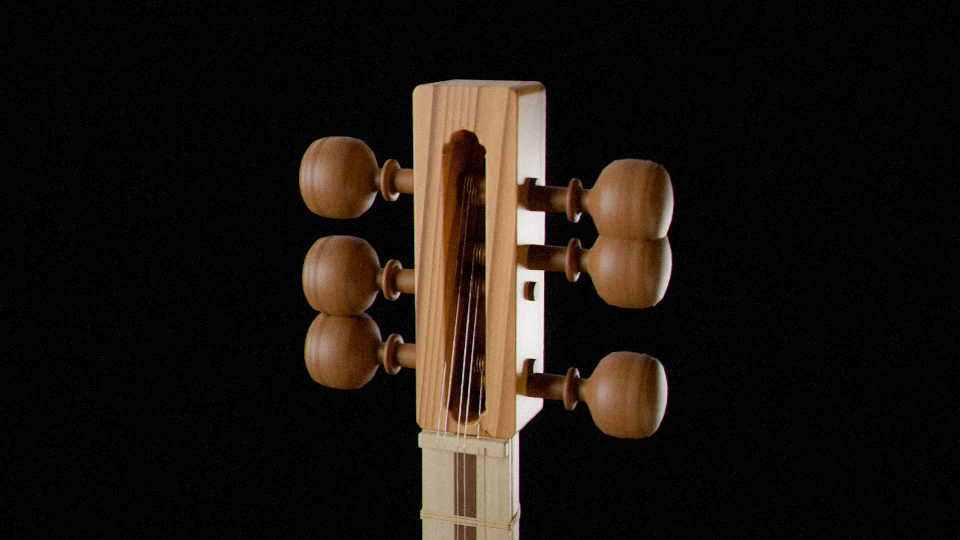
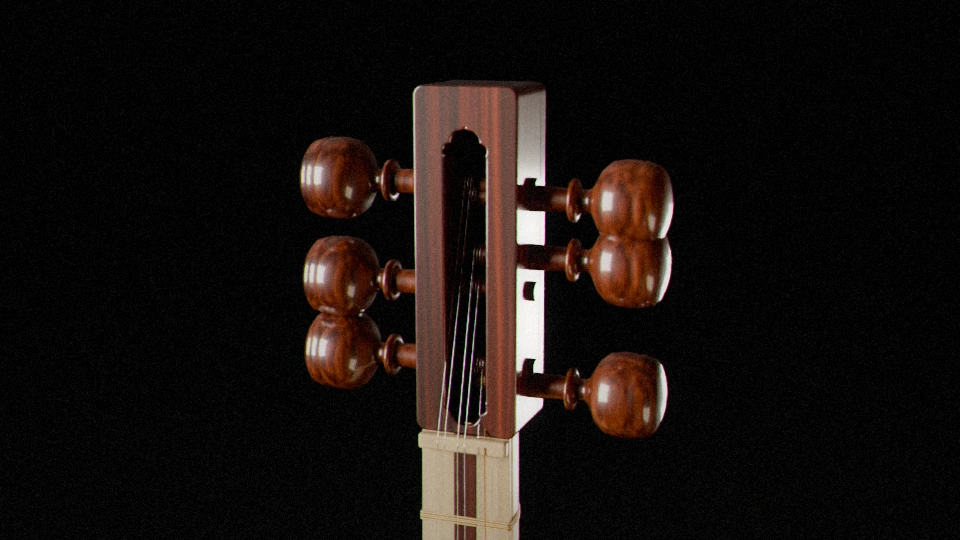
Render: rebuild the look from the user's sample sheets (round 13)
Dark glossy red-brown wood with long flame streaks and sixteen pale inlay lines
round the bowls, pale maple neck, khatam border round a grey-brown marbled skin,
charcoal studio sweep with a lighter floor tone, clean studio reflections for the
lacquer and a dimmer back light. TAR_LOOK=old keeps the previous look. Burnt
pixels: at most 0.03% across the tip-over poses, none along the end of the scroll.

Claude-Session: https://claude.ai/code/session_01G1uTAfhbgKsxoFAeno84xV

Changed region(s): [[0.3125, 0.1481, 0.7188, 0.8296], [0.4688, 0.8593, 0.5, 0.8889]]

diff --git a/render/build_scene.py b/render/build_scene.py
@@ -459,6 +459,217 @@ def metal(name, colour, roughness):
     return m
 
 
+# ---------------------------------------------------------------- round 13: the user's samples
+# Materials rebuilt from the two sample sheets the user chose (docs/tar-3d/refs-chatgpt): dark,
+# glossy red-brown wood with long flame streaks and thin pale inlay lines along the bowls, a pale
+# maple neck, grey-brown marbled skin and a khatam border round it, on a charcoal studio sweep.
+class Nodes:
+    """Small helper for building node graphs."""
+    def __init__(self, nt):
+        self.nt = nt
+
+    def new(self, kind, **inputs):
+        n = self.nt.nodes.new(kind)
+        for k, v in inputs.items():
+            n.inputs[k].default_value = v
+        return n
+
+    def link(self, a, b):
+        self.nt.links.new(a, b)
+
+    def op(self, kind, x, y=None, z=None):
+        n = self.nt.nodes.new('ShaderNodeMath'); n.operation = kind
+        for i, v in enumerate((x, y, z)):
+            if v is None: continue
+            if isinstance(v, (int, float)): n.inputs[i].default_value = v
+            else: self.nt.links.new(v, n.inputs[i])
+        return n.outputs[0]
+
+    def grey(self, f):
+        c = self.nt.nodes.new('ShaderNodeCombineColor')
+        for k in ('Red', 'Green', 'Blue'): self.nt.links.new(f, c.inputs[k])
+        return c.outputs['Color']
+
+    def mix(self, fac, a, b, blend='MIX'):
+        m = self.nt.nodes.new('ShaderNodeMix'); m.data_type = 'RGBA'; m.blend_type = blend
+        for sock, v in (('Factor', fac), ('A', a), ('B', b)):
+            if isinstance(v, (int, float)): m.inputs[sock].default_value = v
+            elif isinstance(v, tuple): m.inputs[sock].default_value = v
+            else: self.nt.links.new(v, m.inputs[sock])
+        return m.outputs['Result']
+
+    def noise(self, vec, scale, detail=2.0, rough=0.5, distortion=0.0, stretch=None):
+        if stretch:
+            mp = self.new('ShaderNodeMapping'); mp.inputs['Scale'].default_value = stretch
+            self.link(vec, mp.inputs['Vector']); vec = mp.outputs['Vector']
+        n = self.new('ShaderNodeTexNoise', Scale=scale, Detail=detail, Roughness=rough, Distortion=distortion)
+        self.link(vec, n.inputs['Vector'])
+        return n
+
+    def ramp(self, fac, stops):
+        r = self.nt.nodes.new('ShaderNodeValToRGB'); cr = r.color_ramp
+        cr.elements[0].position, cr.elements[0].color = stops[0][0], srgb(stops[0][1])
+        cr.elements[1].position, cr.elements[1].color = stops[-1][0], srgb(stops[-1][1])
+        for pos, col in stops[1:-1]:
+            e = cr.elements.new(pos); e.color = srgb(col)
+        self.link(fac, r.inputs['Fac'])
+        return r.outputs['Color']
+
+
+ROSEWOOD = ('#0e0301', '#2e0b02', '#581a06', '#8c3410')  # deep, dark, mid, light (sample: mean 73 32 18)
+
+
+def rosewood(name, tones=ROSEWOOD, gloss=1.0, stripes=0, stripe_axis_y=0.0, stripe_top=1.0, scale=1.0):
+    """Dark red-brown wood with long, wavy flame streaks along the instrument (Blender z) and a
+    deep, glossy lacquer. stripes>0 adds that many thin pale inlay lines round the bowl's long
+    axis (one down the middle of the back), as on the samples."""
+    m, nt, bsdf = new_mat(name); g = Nodes(nt)
+    co = g.new('ShaderNodeTexCoord').outputs['Object']
+    # broad light and dark areas, long along the grain
+    broad = g.noise(co, 1.0, detail=2, rough=0.5, distortion=0.3, stretch=(7 * scale, 7 * scale, 0.9 * scale))
+    # the flame: tight wavy streaks, stretched along the grain and bent by the broad noise
+    warp = g.new('ShaderNodeVectorMath'); warp.operation = 'ADD'
+    wsc = g.new('ShaderNodeVectorMath'); wsc.operation = 'SCALE'; wsc.inputs['Scale'].default_value = 0.02
+    g.link(broad.outputs['Color'], wsc.inputs[0]); g.link(co, warp.inputs[0]); g.link(wsc.outputs[0], warp.inputs[1])
+    # (octaves of a noise grow finer along every axis alike, so each scale gets its own
+    # stretched noise: that keeps all of them long along the grain instead of mottled)
+    flame = g.noise(warp.outputs[0], 1.0, detail=1, rough=0.5, stretch=(110 * scale, 110 * scale, 1.2 * scale))
+    flame2 = g.noise(warp.outputs[0], 1.0, detail=1, rough=0.5, stretch=(380 * scale, 380 * scale, 3.0 * scale))
+    tone = g.op('ADD', g.op('MULTIPLY', flame.outputs['Fac'], 0.6), g.op('MULTIPLY', flame2.outputs['Fac'], 0.3))
+    tone = g.op('ADD', tone, g.op('MULTIPLY', broad.outputs['Fac'], 0.3))
+    tone = g.op('SUBTRACT', tone, 0.1)
+    col = g.ramp(tone, [(0.22, tones[0]), (0.4, tones[1]), (0.56, tones[2]), (0.72, tones[3])])
+    # fine fibres and pores
+    fib = g.noise(co, 1.0, detail=3, rough=0.6, stretch=(1200, 1200, 20))
+    col = g.mix(1.0, col, g.grey(g.op('ADD', 0.88, g.op('MULTIPLY', fib.outputs['Fac'], 0.24))), 'MULTIPLY')
+    if stripes:
+        sep = g.new('ShaderNodeSeparateXYZ'); g.link(co, sep.inputs[0])
+        theta = g.op('ARCTAN2', sep.outputs['X'], g.op('SUBTRACT', sep.outputs['Y'], stripe_axis_y))
+        f = g.op('FRACT', g.op('ADD', g.op('MULTIPLY', theta, stripes / (2 * math.pi)), 0.5))
+        dist = g.op('ABSOLUTE', g.op('SUBTRACT', f, 0.5))  # 0 on a line … 0.5 between lines
+        line = g.op('SUBTRACT', 1.0, g.op('SMOOTH_MIN', g.op('DIVIDE', dist, 0.006), 1.0, 0.2))
+        line = g.op('MAXIMUM', 0.0, g.op('MINIMUM', 1.0, line))
+        line = g.op('MULTIPLY', line, g.op('MINIMUM', 1.0, g.op('MAXIMUM', 0.0, g.op('DIVIDE', g.op('SUBTRACT', stripe_top, sep.outputs['Z']), 0.04))))
+        rad = g.op('SQRT', g.op('ADD', g.op('POWER', sep.outputs['X'], 2.0), g.op('POWER', g.op('SUBTRACT', sep.outputs['Y'], stripe_axis_y), 2.0)))
+        line = g.op('MULTIPLY', line, g.op('MINIMUM', 1.0, g.op('MAXIMUM', 0.0, g.op('DIVIDE', g.op('SUBTRACT', rad, 0.03), 0.03))))
+        col = g.mix(line, col, srgb('#dcc08e'))
+    g.link(col, bsdf.inputs['Base Color'])
+    bsdf.inputs['Roughness'].default_value = 0.42
+    bsdf.inputs['Specular IOR Level'].default_value = 0.5
+    bsdf.inputs['Coat Weight'].default_value = gloss
+    bsdf.inputs['Coat Roughness'].default_value = 0.11
+    bsdf.inputs['Coat IOR'].default_value = 1.5
+    bump = g.new('ShaderNodeBump', Strength=0.04, Distance=0.0004)
+    g.link(fib.outputs['Fac'], bump.inputs['Height']); g.link(bump.outputs['Normal'], bsdf.inputs['Normal'])
+    return m
+
+
+def maple(name, base='#e2c79a', streak='#c9a46e', gloss=0.35):
+    """Pale, close-grained neck wood (the samples' neck is cream with faint streaks)."""
+    m, nt, bsdf = new_mat(name); g = Nodes(nt)
+    co = g.new('ShaderNodeTexCoord').outputs['Object']
+    st = g.noise(co, 1.0, detail=4, rough=0.6, stretch=(400, 400, 8))
+    col = g.ramp(st.outputs['Fac'], [(0.3, base), (0.75, streak)])
+    g.link(col, bsdf.inputs['Base Color'])
+    bsdf.inputs['Roughness'].default_value = 0.45
+    bsdf.inputs['Coat Weight'].default_value = gloss; bsdf.inputs['Coat Roughness'].default_value = 0.2
+    return m
+
+
+def mesh_edge_map(objs, prefix, name, px_per_cm=20, max_cm=3.0):
+    """Distance from the edge of a flat part (in the front plane), as an image; see make_skin_edge_map."""
+    from PIL import Image, ImageDraw, ImageFilter
+    ob = [o for o in objs if o.name.startswith(prefix)][0]; me = ob.data
+    xs = [v.co.x for v in me.vertices]; zs = [v.co.z for v in me.vertices]
+    x0, z0 = min(xs) - 0.005, min(zs) - 0.005
+    w, h = max(xs) + 0.005 - x0, max(zs) + 0.005 - z0
+    W, H = round(w * 100 * px_per_cm), round(h * 100 * px_per_cm)
+    im = Image.new('L', (W, H), 0); dr = ImageDraw.Draw(im)
+    to_px = lambda v: ((v.co.x - x0) / w * W, (1 - (v.co.z - z0) / h) * H)
+    front = max(v.co.y for v in me.vertices)
+    for poly in me.polygons:
+        if abs(poly.normal.y) > 0.5:  # faces in the front plane only
+            dr.polygon([to_px(me.vertices[i]) for i in poly.vertices], fill=255)
+    steps = round(max_cm * px_per_cm); dist = Image.new('L', (W, H), 0); cur = im
+    for k in range(steps):
+        cur = cur.filter(ImageFilter.MinFilter(3))
+        dist.paste(round(255 * (k + 1) / steps), mask=cur)
+    dist = dist.filter(ImageFilter.GaussianBlur(1.0))
+    path = BUILD / f'{name}_edge.png'; dist.save(path)
+    return (path, x0, z0, w, h, max_cm)
+
+
+LIP_EDGE = None
+
+
+def edge_value(g, co, edge):
+    path, x0, z0, w, h = edge[:5]
+    sep = g.new('ShaderNodeSeparateXYZ'); g.link(co, sep.inputs[0])
+    uv = g.new('ShaderNodeCombineXYZ')
+    g.link(g.op('DIVIDE', g.op('SUBTRACT', sep.outputs['X'], x0), w), uv.inputs['X'])
+    g.link(g.op('DIVIDE', g.op('SUBTRACT', sep.outputs['Z'], z0), h), uv.inputs['Y'])
+    img = g.new('ShaderNodeTexImage'); img.image = bpy.data.images.load(str(path), check_existing=False)
+    img.image.colorspace_settings.name = 'Non-Color'; img.extension = 'EXTEND'
+    g.link(uv.outputs[0], img.inputs['Vector'])
+    return img.outputs['Color'], sep
+
+
+def khatam_lip():
+    """The border round the skin: a pale line on each side and, between them, a dark band of
+    small pale triangles pointing in (khatam), as on the samples."""
+    m, nt, bsdf = new_mat('lip'); g = Nodes(nt)
+    co = g.new('ShaderNodeTexCoord').outputs['Object']
+    ev, sep = edge_value(g, co, LIP_EDGE)
+    sc = g.new('ShaderNodeSeparateColor'); g.link(ev, sc.inputs['Color'])
+    d_cm = g.op('MULTIPLY', sc.outputs['Red'], LIP_EDGE[5])       # cm from the nearest edge
+    half = 0.95                                                   # the border is about 1.9 cm wide
+    across = g.op('MINIMUM', 1.0, g.op('DIVIDE', d_cm, half))     # 0 at an edge … 1 in the middle
+    pale = g.op('LESS_THAN', d_cm, 0.09)                          # the two pale lines
+    # along the band: a coordinate that keeps running round both curves of the outline
+    along = g.op('ADD', g.op('MULTIPLY', sep.outputs['X'], 260.0), g.op('MULTIPLY', sep.outputs['Z'], 260.0))
+    tri = g.op('MULTIPLY', g.op('ABSOLUTE', g.op('SUBTRACT', g.op('FRACT', along), 0.5)), 2.0)
+    tooth = g.op('LESS_THAN', g.op('DIVIDE', g.op('SUBTRACT', across, 0.2), 0.45), tri)
+    tooth = g.op('MULTIPLY', tooth, g.op('MULTIPLY', g.op('GREATER_THAN', across, 0.2), g.op('LESS_THAN', across, 0.65)))
+    col = g.mix(tooth, srgb('#1a0e08'), srgb('#cdbb98'))
+    col = g.mix(pale, col, srgb('#c9a874'))
+    g.link(col, bsdf.inputs['Base Color'])
+    bsdf.inputs['Roughness'].default_value = 0.35
+    bsdf.inputs['Coat Weight'].default_value = 0.8; bsdf.inputs['Coat Roughness'].default_value = 0.1
+    return m
+
+
+def parchment_skin():
+    """The samples' skin: grey-brown, matte, marbled with fine darker and lighter veins, a little
+    darker towards its glued edge."""
+    m, nt, bsdf = new_mat('skin'); g = Nodes(nt)
+    co = g.new('ShaderNodeTexCoord').outputs['Object']
+    marble = g.noise(co, 90.0, detail=10, rough=0.66, distortion=2.0)
+    base = g.ramp(marble.outputs['Fac'], [(0.3, '#4a4038'), (0.5, '#6a5f54'), (0.7, '#857767')])
+    # fine dark veins (cell edges of a warped Voronoi) and a lighter network between them
+    wv = g.new('ShaderNodeVectorMath'); wv.operation = 'SCALE'; wv.inputs['Scale'].default_value = 0.003
+    g.link(marble.outputs['Color'], wv.inputs[0])
+    wco = g.new('ShaderNodeVectorMath'); wco.operation = 'ADD'; g.link(co, wco.inputs[0]); g.link(wv.outputs[0], wco.inputs[1])
+    col = base
+    for scale, width, depth in ((90.0, 0.04, 0.25), (320.0, 0.05, 0.2)):
+        vo = g.new('ShaderNodeTexVoronoi', Scale=scale); vo.feature = 'DISTANCE_TO_EDGE'
+        g.link(wco.outputs[0], vo.inputs['Vector'])
+        line = g.op('SUBTRACT', 1.0, g.op('MINIMUM', g.op('DIVIDE', vo.outputs['Distance'], width), 1.0))
+        col = g.mix(1.0, col, g.grey(g.op('SUBTRACT', 1.0, g.op('MULTIPLY', line, depth))), 'MULTIPLY')
+    # darker where it is glued down at the edge
+    ev, _ = edge_value(g, co, SKIN_EDGE)
+    sc = g.new('ShaderNodeSeparateColor'); g.link(ev, sc.inputs['Color'])
+    edge = g.op('SUBTRACT', 1.0, g.op('MINIMUM', 1.0, g.op('DIVIDE', sc.outputs['Red'], 0.25)))
+    col = g.mix(g.op('MULTIPLY', edge, 0.45), col, srgb('#3d3128'))
+    g.link(col, bsdf.inputs['Base Color'])
+    micro = g.noise(co, 2500.0, detail=2)
+    h = g.op('ADD', micro.outputs['Fac'], g.op('MULTIPLY', marble.outputs['Fac'], 0.5))
+    bump = g.new('ShaderNodeBump', Strength=0.1, Distance=0.0003)
+    g.link(h, bump.inputs['Height']); g.link(bump.outputs['Normal'], bsdf.inputs['Normal'])
+    bsdf.inputs['Roughness'].default_value = 0.7
+    bsdf.inputs['Specular IOR Level'].default_value = 0.35
+    return m
+
+
 def build_materials():
     # the scanned ash, turned 90° so its grain runs vertically (along the instrument) in box projection
     rot = ASSETS / 'ash_veneer_diff_2k_rot.jpg'
@@ -497,12 +708,24 @@ def build_materials():
         'stringSteel': metal('stringSteel', '#d4d4d2', 0.25),
         'stringBronze': metal('stringBronze', '#b48848', 0.3),
     }
+    if os.environ.get('TAR_LOOK', 'samples') == 'samples':
+        # round 13: the look of the user's sample sheets
+        mats.update({
+            'wood': rosewood('rw_bowl', stripes=16, stripe_axis_y=0.0895, stripe_top=0.34),
+            'woodTop': rosewood('rw_top'),
+            'headWood': rosewood('rw_head', scale=2.0),
+            'pegWood': rosewood('rw_peg', tones=('#1e0904', '#40150a', '#6a2a12', '#8a4020'), scale=3.0),
+            'boardWood': rosewood('rw_board', tones=('#1a0703', '#33100a', '#561e0e', '#6e2a14'), scale=2.0),
+            'lightWood': maple('maple'),
+            'lip': khatam_lip(),
+            'skin': parchment_skin(),
+        })
     for o in bpy.context.scene.objects:
         if o.type != 'MESH':
             continue
         key = o.name.split('__')[-1].split('.')[0]
-        if o.name.startswith('body__top'):
-            key = 'woodTop'
+        if o.name.startswith('body__top') or o.name.startswith('heel__'):
+            key = 'woodTop'  # the flat face and the heel: same wood, no inlay lines
         o.data.materials.clear()
         o.data.materials.append(mats.get(key, mats['wood']))
 
@@ -521,11 +744,39 @@ def build_world(strength=1.0, rotation_deg=200):
     nt.links.new(tc.outputs['Generated'], mp.inputs['Vector']); nt.links.new(mp.outputs['Vector'], env.inputs['Vector'])
     room = nt.nodes.new('ShaderNodeBackground'); room.inputs['Strength'].default_value = strength
     nt.links.new(env.outputs['Color'], room.inputs['Color'])
-    dark = nt.nodes.new('ShaderNodeBackground'); dark.inputs['Color'].default_value = srgb('#0b0a09'); dark.inputs['Strength'].default_value = 1.0
+    dark = nt.nodes.new('ShaderNodeBackground'); dark.inputs['Strength'].default_value = 1.0
+    if os.environ.get('TAR_LOOK', 'samples') == 'samples':
+        # round 13: the samples' charcoal studio — near-black above, a slightly lighter grey floor
+        # where the camera looks down, with a faint texture so it is not a flat digital fill
+        g = Nodes(nt)
+        dirv = g.new('ShaderNodeSeparateXYZ'); g.link(tc.outputs['Generated'], dirv.inputs[0])
+        floor = g.new('ShaderNodeMapRange', **{'From Min': 0.05, 'From Max': -0.35})
+        floor.interpolation_type = 'SMOOTHSTEP'; g.link(dirv.outputs['Z'], floor.inputs['Value'])
+        tex = g.noise(tc.outputs['Generated'], 180.0, detail=4, rough=0.6)
+        base = g.mix(floor.outputs['Result'], srgb('#0f0f0f'), srgb('#232222'))
+        base = g.mix(1.0, base, g.grey(g.op('ADD', 0.9, g.op('MULTIPLY', tex.outputs['Fac'], 0.2))), 'MULTIPLY')
+        g.link(base, dark.inputs['Color'])
+    else:
+        dark.inputs['Color'].default_value = srgb('#0b0a09')
     lp = nt.nodes.new('ShaderNodeLightPath')
     mix = nt.nodes.new('ShaderNodeMixShader')
     nt.links.new(lp.outputs['Is Camera Ray'], mix.inputs['Fac'])
-    nt.links.new(room.outputs['Background'], mix.inputs[1]); nt.links.new(dark.outputs['Background'], mix.inputs[2])
+    lit = room.outputs['Background']
+    if os.environ.get('TAR_LOOK', 'samples') == 'samples':
+        # Round 13: in the high-gloss lacquer the HDRI's studio stands and fixtures showed as thin
+        # bright outlines. Reflections see a clean studio instead: a soft, slightly warm ceiling
+        # fading to a dark floor; the area lights give the broad softbox highlights.
+        g = Nodes(nt)
+        dz = g.new('ShaderNodeSeparateXYZ'); g.link(tc.outputs['Generated'], dz.inputs[0])
+        dome = g.new('ShaderNodeMapRange', **{'From Min': -0.2, 'From Max': 0.9})
+        dome.interpolation_type = 'SMOOTHSTEP'; g.link(dz.outputs['Z'], dome.inputs['Value'])
+        clean = g.new('ShaderNodeBackground', Strength=1.0)
+        g.link(g.mix(dome.outputs['Result'], (0.004, 0.004, 0.004, 1), (0.09, 0.08, 0.07, 1)), clean.inputs['Color'])
+        gm = g.new('ShaderNodeMixShader')
+        g.link(lp.outputs['Is Glossy Ray'], gm.inputs['Fac'])
+        g.link(room.outputs['Background'], gm.inputs[1]); g.link(clean.outputs['Background'], gm.inputs[2])
+        lit = gm.outputs['Shader']
+    nt.links.new(lit, mix.inputs[1]); nt.links.new(dark.outputs['Background'], mix.inputs[2])
     nt.links.new(mix.outputs['Shader'], out.inputs['Surface'])
 
 
@@ -564,7 +815,7 @@ def add_window_light():
     # while the instrument tips over (the skin above all) are not hit head-on; its glints on
     # the satin finish are toned down so they never burn a part of the instrument out.
     window = area('window', (-2.0, -0.8, 1.05), 1.1, 1.5, 230, (1.0, 0.93, 0.83))
-    window.data.specular_factor = 0.55
+    window.data.specular_factor = 0.3
     # the window frame: two crossing bars just in front of the glass, seen by the light only
     d = (target - window.location).normalized()
     for k, (sx, sy) in enumerate(((0.035, 1.6), (1.2, 0.035))):
@@ -578,8 +829,8 @@ def add_window_light():
     # the back light: still a touch hot on the edges, but larger, dimmer and lower than in
     # round 8 — when the tar tips over backwards its upturned faces look straight into it,
     # and the small bright one burnt the skin and top out (measured: 1% of the instrument)
-    rim = area('rim', (1.1, 1.6, 0.55), 0.8, 0.6, 75, (1.0, 0.9, 0.78))
-    rim.data.specular_factor = 0.45
+    rim = area('rim', (1.1, 1.6, 0.55), 0.8, 0.6, 45, (1.0, 0.9, 0.78))
+    rim.data.specular_factor = 0.12  # round 13: the glossy lacquer mirrored it as a pale patch
     # a black flag overhead, as photographers use: no light straight down onto upturned faces
     bpy.ops.mesh.primitive_plane_add(size=1, location=PIVOT + Vector((-0.2, 0, 1.6)))
     flag = bpy.context.object; flag.name = 'flag'; flag.scale = (2.2, 1.6, 1)
@@ -780,6 +1031,8 @@ def setup(width, height, samples):
     BODY_BACK = body_back
     global SKIN_EDGE
     SKIN_EDGE = make_skin_edge_map(objs)
+    global LIP_EDGE
+    LIP_EDGE = mesh_edge_map(objs, 'body__lip', 'lip', max_cm=1.0)
     build_materials()
     if os.environ.get('TAR_LIGHT', 'natural') == 'studio':
         build_world(); add_soft_key()  # rounds 1–7: soft, even studio light

diff --git a/docs/tar-3d/SPEC.md b/docs/tar-3d/SPEC.md
@@ -802,3 +802,25 @@ docs/tar-3d/test/    عکسها و گزارش تست فاز ۷
 | تغییر | فاز در طرح اصلی | فاز در راه حل ۲ |
 |-------|------------------|------------------|
 | تفکیک پوست روی حفره / روی چوب، خط چسب | فاز ۵ | ر۲ |
+
+## ۲۳. دور اصلاح ۱۳ — بازسازی ظاهر بر اساس نمونههای کاربر (۱۴۰۵/۰۷/۱۱)
+
+**بازخورد کاربر:** هیچکدام از تصاویر قبلی قابل قبول نیست؛ دو برگهی نمونه (ساختهی ChatGPT) فرستاد تا به همان شکل بازسازی شود، با افتادن عمودی و صاف به پشت (نه چپ و راست). نمونهها به ۲۸ تصویر جدا تفکیک شدند: `docs/tar-3d/refs-chatgpt/` (پشت، افتادن A و B، رو به بالا، شش جزئیات) با فهرست `index.webp`.
+
+**ساخته شد (`TAR_LOOK=samples`، پیشفرض؛ ظاهر قبلی با `TAR_LOOK=old`):**
+- **چوب کاسه، صفحه، پاشنه و سر:** قهوهای-قرمز تیره (نمونه: میانگین ۷۳، ۳۲، ۱۸) با رگههای بلند و موجدار در طول ساز، هر مقیاس با نویز کشیدهی خودش؛ لاک براق (لایهی رویی کامل، زبری ۰٫۱۱).
+- **نوارهای روشن روی کاسه و نقاره:** ۱۶ خط باریک افرا دور محور طولی کاسه، یکی دقیقاً وسط پشت؛ نزدیک محور و بالای شانه محو میشوند.
+- **دسته:** افرای روشن کرم با رگهی کمرنگ؛ گوشیها و نوار وسط دسته رزوود تیرهتر.
+- **حاشیهی خاتم دور پوست:** دو خط روشن باریک و بینشان نوار تیره با دندانههای مثلثی روشن رو به داخل؛ از روی نقشهی فاصلهی مش لبه ساخته میشود.
+- **پوست:** خاکستری-قهوهای مات با نقش مرمری ریز، رگهای تیره در دو اندازه، کمی تیرهتر کنار لبهی چسب.
+- **پسزمینه:** خاکستری خیلی تیره (حدود ۱۶) که هرچه دوربین پایینتر نگاه کند به رنگ کف (حدود ۳۰) میرسد، با بافت ریز.
+- **انعکاسها:** در لاک براق، وسایل استودیوی داخل HDRI به شکل خطوط روشن نازک دیده میشدند؛ پرتوهای انعکاسی حالا یک استودیوی تمیز (سقف نرم و گرم، کف تاریک) میبینند. نور پشتی در لاک مثل لکهای روشن منعکس میشد: کمنورتر و انعکاسش ۰٫۱۲.
+- **آزمون سوختگی (۲۰ حالت افتادن + ۱۱ نقطهی انتهای اسکرول):** حداکثر ۰٫۰۳٪ (فقط برقهای ریز لاک)، صفر در مسیر انتهای اسکرول.
+
+**فاصلههای باقیمانده با نمونهها (هندسه، دور بعد):** کاسه و نقاره در نمونهها گرد و تخممرغیاند با کمر عمیقتر؛ پوست تقریباً همهی صفحه را با دو دایرهی بزرگ میپوشاند (پوست ما ساعتشنی و باریکتر است)؛ سر ساز تاج دندانهدار و گوشیهای تراشخورده دارد.
+
+| تغییر | فاز در طرح اصلی | فاز در راه حل ۲ |
+|-------|------------------|------------------|
+| جنسها، خاتم، پوست | فاز ۵ | ر۲ |
+| پسزمینه، انعکاسها، نور پشتی | فاز ۶ | ر۳ |
+| شکل کاسه و پوست، تاج سر، گوشیها (پیشنهادی) | فاز ۲ و ۴ | ر۱ (خروجی هندسه) |
